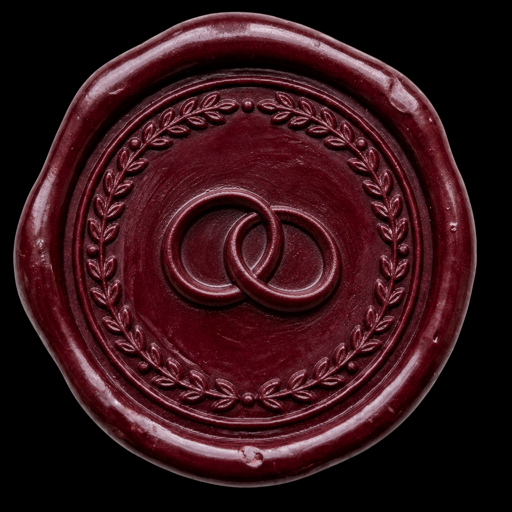
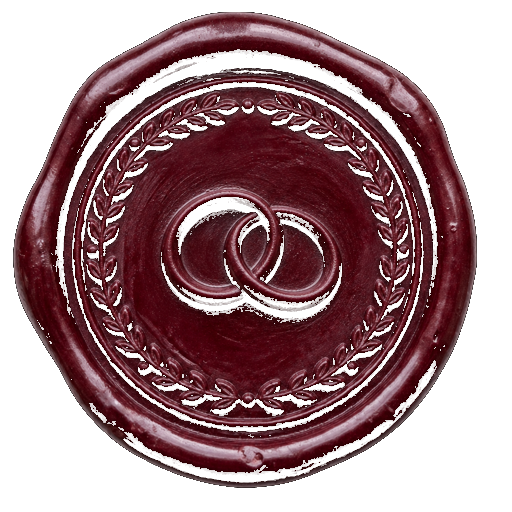
Remove o fundo preto do selo, deixando transparente.

diff --git a/index.html b/index.html
@@ -66,7 +66,7 @@
         <div class="texto">
             <h1 id="cfg-nomes-hero">Rafaella & Kevin</h1> <button type="button" class="selo-convite"
                 id="btn-abrir-convite" aria-label="Abrir convite">
-                <img src="imagens/selo.png?v=3" alt="">
+                <img src="imagens/selo.png?v=4" alt="">
             </button>
         </div>
     </div>
